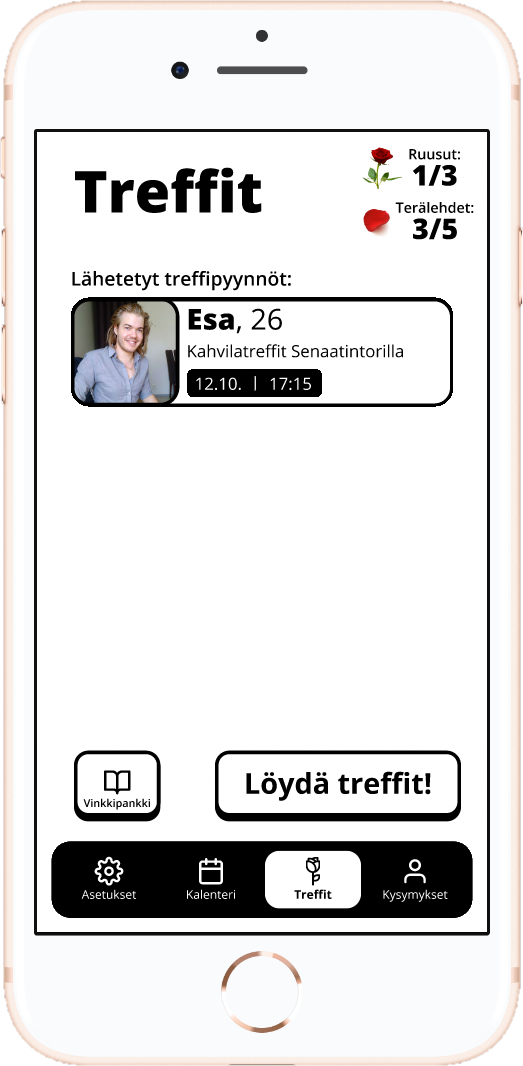
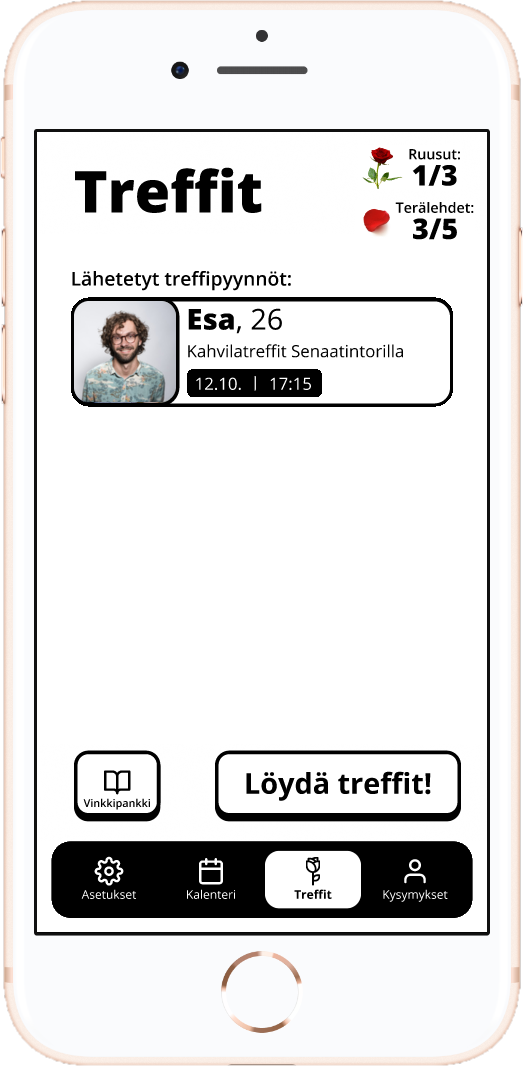
Meistä: a stand-in for the prototype's Esa, new 2022–2025 text, three more pictures
"Esa, 26" in the prototype's screenshots wore a real person's photograph. In
mockup1, mockup3, latevisu1 and latevisu2 meista.py now paints every one of his
photo slots over with one face from the backend's mock cast (spare-male-01,
Unsplash, Christian Buehner), each slot's box and corner radius measured on the
original; the Ehdokkaat card gets its darkening and its white name back on top.

2022–2025 reads the owner's new line, the English a draft, and gains the two
screens from the esimerkkiruudut board, set on the foot of visu2's phone, and the
early mascot as a rounded tile: the small map print with the logo and the mascot
over its lower corners, and four phones fanned under it, two pairs on a phone.

Claude-Session: https://claude.ai/code/session_01GD9L6NkBiCqNs6T5pZN8hJ

Changed region(s): [[0.1224, 0.2786, 0.3365, 0.4024]]

diff --git a/scripts/photos/meista.py b/scripts/photos/meista.py
@@ -16,6 +16,13 @@ by its kind:
   * A screenshot of a browser keeps only the page it shows: the box below cuts the
     browser's toolbar, its address and profile picture, off the top, and the
     window's edge and scrollbar off the sides.
+  * A board is a design-tool page holding several screens: each is cut out by its
+    box, its own frame label and the page's title left behind, and set into a
+    phone as a screen is, below. These are cut off at the board's foot, so they
+    stand on the phone's foot as if they ran on under it, and their own flat
+    background is carried on above them.
+  * A rounded tile is a square picture on no tile of its own, given the logo's
+    rounded corners.
   * A screen is a design-tool frame on its grey canvas, with the frame's name
     above it. It is cut to the frame and set into the phone of another phone
     shot, so it stands beside that one as the same device: the screen is fitted
@@ -24,6 +31,16 @@ by its kind:
     rows carried on. It runs the screen's full width: only its background meets
     the corners, and its content keeps the design's own margins inside them.
 
+Before any of that, the prototype's screenshots lose a real person. Their sample
+profile, "Esa, 26", wears the photograph of somebody who never agreed to be on a
+dating site, so every place it is drawn is painted over with one face from the
+backend's mock cast (`cast/`, Unsplash stock, credited in docs/pictures.md). The
+same face in every screenshot, so the prototype still reads as one profile. Each
+place is a box measured on the original, inside the slot's border, with the
+slot's corner radius; the face is cropped to the box's proportions round its
+centre and pasted under the slot's own border, and the one slot that prints the
+name over the photo gets its darkening and its white letters back on top.
+
 The same inputs give the same bytes out, every run.
 """
 import os
@@ -31,7 +48,7 @@ import shutil
 
 import cv2
 import numpy as np
-from PIL import Image
+from PIL import Image, ImageDraw, ImageFilter
 
 HERE = os.path.dirname(os.path.abspath(__file__))
 SRC = os.path.join(HERE, 'meista')
@@ -44,10 +61,48 @@ BLACK = 28
 PHOTOS = ['boissit.jpg', 'designsprint.jpg', 'designsprint2.jpg']
 DEVICES = ['visu2.jpg', 'mockup1.png', 'mockup2.png', 'mockup3.png', 'latevisu1.jpg', 'latevisu2.jpg']
 TILES = ['logo.jpg']
+# A square picture, the box of it that is the square, and the corner radius as a
+# share of its side, the logo tile's.
+ROUNDED_TILES = {'maskotti.png': ((0, 0, 286, 285), 0.175)}
+# A board, and each screen on it: the picture it becomes, its box on the board,
+# and the device whose phone it is set into.
+BOARDS = {
+    'esimerkkiruudut.png': {
+        'onboard.png': ((103, 89, 474, 898), 'visu2.jpg'),
+        'overview.png': ((518, 89, 889, 898), 'visu2.jpg'),
+    },
+}
 # A browser screenshot, and the box of it that is the page: measured on the file.
 BROWSER = {'map.jpg': (8, 26, 1263, 678)}
 # Above this in every channel a pixel is a tile's white ground.
 WHITE = 236
+# The stand-in for "Esa, 26": `spare-male-01.jpg` in treffit-backend's `test/`,
+# the cast's Aleksi Rantala, 26, copied here under the cast's name so the credit
+# in `treffit_backend/mocks/data.py` still finds it.
+CAST = os.path.join(HERE, 'cast')
+STAND_IN = 'spare-male-01.jpg'
+# Where the stand-in's face is centred, in its 600 x 600 pixels.
+STAND_IN_FACE = (300, 230)
+
+# Every photo slot of Esa: the inside of its border as (left, top, right, bottom),
+# measured on the original, and the border's inner corner radius. `square_bottom`
+# for a photo whose foot is a straight cut onto the card, and `name_over` for the
+# one that prints the name over the photo's foot, on a darkening.
+PORTRAITS = {
+    'mockup1.png': [{'box': (98, 325, 200, 426), 'radius': 15}],
+    'mockup3.png': [{'box': (90, 302, 287, 498), 'radius': 20}],
+    'latevisu1.jpg': [{'box': (71, 239, 336, 470), 'radius': 11, 'square_bottom': True, 'name_over': True}],
+    'latevisu2.jpg': [{'box': (69, 245, 147, 323), 'radius': 8}],
+}
+
+# The darkening under the name on the Ehdokkaat card, read off the original's wall:
+# none down to this share of the photo's height, then down to NAME_SHADE of the
+# light at this share, and level to the foot.
+NAME_SHADE_FROM, NAME_SHADE_TO, NAME_SHADE = 0.46, 0.87, 0.52
+# Above this a pixel of the name's band is the white lettering (the darkened photo
+# under it peaks near 110), and fully letter from NAME_FULL.
+NAME_EDGE, NAME_FULL = 120, 235
+
 # A screen, and the device whose phone it is set into.
 SCREENS = {'visu1.jpg': 'visu2.jpg'}
 
@@ -80,8 +135,54 @@ def save_device(rgb, alpha, name):
     Image.fromarray(np.dstack([rgb, alpha])).crop(box).save(os.path.join(WEB, stem(name) + '.png'), optimize=True)
 
 
+def rounded(width, height, radius, square_bottom=False):
+    """A rounded rectangle's coverage, 0 to 1, drawn at four times and averaged
+    down, so its curve is anti-aliased as the screenshot's own border is."""
+    k = 4
+    mask = Image.new('L', (width * k, height * k), 0)
+    draw = ImageDraw.Draw(mask)
+    draw.rounded_rectangle((0, 0, width * k - 1, height * k - 1), radius * k, fill=255,
+                           corners=(True, True, not square_bottom, not square_bottom))
+    return np.array(mask.resize((width, height), Image.LANCZOS)).astype(np.float32)[..., None] / 255
+
+
+def stand_in(width, height):
+    """The stand-in's face, cropped to `width` x `height` round its centre and as
+    soft as the screenshot it goes into."""
+    face = Image.open(os.path.join(CAST, STAND_IN)).convert('RGB')
+    side = min(face.width, round(face.height * width / height))
+    tall = round(side * height / width)
+    fx, fy = STAND_IN_FACE
+    left = min(max(fx - side // 2, 0), face.width - side)
+    top = min(max(fy - round(tall * 0.45), 0), face.height - tall)
+    crop = face.crop((left, top, left + side, top + tall)).resize((width, height), Image.LANCZOS)
+    return np.array(crop.filter(ImageFilter.GaussianBlur(0.5))).astype(np.float32)
+
+
+def paint_over_esa(rgb, name):
+    out = rgb.astype(np.float32)
+    for slot in PORTRAITS.get(name, []):
+        x0, y0, x1, y1 = slot['box']
+        w, h = x1 - x0, y1 - y0
+        old = out[y0:y1, x0:x1].copy()
+        face = stand_in(w, h)
+        if slot.get('name_over'):
+            t = (np.arange(h, dtype=np.float32) / (h - 1))[:, None, None]
+            ramp = np.clip((t - NAME_SHADE_FROM) / (NAME_SHADE_TO - NAME_SHADE_FROM), 0, 1)
+            ramp = ramp * ramp * (3 - 2 * ramp)
+            face *= 1 - (1 - NAME_SHADE) * ramp
+            # The white name, lifted off the original and laid back on.
+            light = old.mean(axis=2, keepdims=True)
+            letters = np.clip((light - NAME_EDGE) / (NAME_FULL - NAME_EDGE), 0, 1)
+            letters[: round(h * NAME_SHADE_TO) - 40] = 0
+            face = face * (1 - letters) + 255 * letters
+        cover = rounded(w, h, slot['radius'], slot.get('square_bottom', False))
+        out[y0:y1, x0:x1] = face * cover + old * (1 - cover)
+    return out.round().clip(0, 255).astype(np.uint8)
+
+
 def device(name):
-    rgb = np.array(Image.open(os.path.join(SRC, name)).convert('RGB'))
+    rgb = paint_over_esa(np.array(Image.open(os.path.join(SRC, name)).convert('RGB')), name)
     save_device(rgb, cut_out(rgb), name)
 
 
@@ -108,7 +209,8 @@ def frame_of(rgb):
     return screen
 
 
-def screen(name, into):
+def design_frame(name):
+    """A design-tool frame cut from its canvas, less the tool's anti-aliased edge."""
     im = Image.open(os.path.join(SRC, name)).convert('RGB')
     rgb = np.array(im).astype(int)
     canvas = rgb[2, 2]
@@ -118,30 +220,63 @@ def screen(name, into):
     rows = np.nonzero(differs.mean(axis=1) > 0.5)[0]
     cols = np.nonzero(differs.mean(axis=0) > 0.5)[0]
     e = FRAME_EDGE
-    design = np.array(im.crop((cols.min() + e, rows.min() + e, cols.max() + 1 - e, rows.max() + 1 - e)))
+    return np.array(im.crop((cols.min() + e, rows.min() + e, cols.max() + 1 - e, rows.max() + 1 - e)))
 
+
+def set_into_phone(design, into, out_name, align='centre'):
+    """`design` whole on the screen of `into`'s phone, below its notch.
+
+    Centred, it runs the screen's full width, and its top and bottom rows are
+    carried on into the room left. On the foot, for a screen cut off at its foot,
+    it stands on the screen's bottom edge and its top rows are carried on above;
+    a design too tall for that is narrowed, and its side columns carried on.
+    """
     phone = np.array(Image.open(os.path.join(SRC, into)).convert('RGB'))
     area = frame_of(phone)
     ys, xs = np.nonzero(area)
     top, bottom, left, right = ys.min(), ys.max() + 1, xs.min(), xs.max() + 1
     # The notch's depth: how far down the screen's middle column starts below its top.
     notch = np.nonzero(area[:, (left + right) // 2])[0].min() - top
+    screen_w, screen_h = right - left, bottom - top
 
-    # Whole, as wide as the screen, and below the notch.
-    width = right - left
-    height = round(design.shape[0] * width / design.shape[1])
-    room = bottom - top - height
-    above = max(room // 2, notch + SCREEN_MARGIN)
-    if room - above < SCREEN_MARGIN:
-        raise SystemExit(f'{name} does not fit inside the screen of {into} below its notch.')
+    if align == 'centre':
+        width = screen_w
+        height = round(design.shape[0] * width / design.shape[1])
+        room = screen_h - height
+        above = max(room // 2, notch + SCREEN_MARGIN)
+        if room - above < SCREEN_MARGIN:
+            raise SystemExit(f'{out_name} does not fit inside the screen of {into} below its notch.')
+        below = room - above
+    else:
+        scale = min(screen_w / design.shape[1], (screen_h - notch - SCREEN_MARGIN) / design.shape[0])
+        width, height = round(design.shape[1] * scale), round(design.shape[0] * scale)
+        above, below = screen_h - height, 0
     design = cv2.resize(design, (width, height), interpolation=cv2.INTER_AREA)
+    side = screen_w - width
     # The design's own edges carried on round it, so the room left is its background.
-    filled = cv2.copyMakeBorder(design, above, bottom - top - height - above, 0, 0, cv2.BORDER_REPLICATE)
+    filled = cv2.copyMakeBorder(design, above, below, side // 2, side - side // 2, cv2.BORDER_REPLICATE)
 
     out = phone.copy()
     soft = cv2.GaussianBlur(area.astype(np.float32), (3, 3), 0.8)[top:bottom, left:right, None]
     out[top:bottom, left:right] = (filled * soft + phone[top:bottom, left:right] * (1 - soft)).round().astype(np.uint8)
-    save_device(out, cut_out(phone), name)
+    save_device(out, cut_out(phone), out_name)
+
+
+def screen(name, into):
+    set_into_phone(design_frame(name), into, name)
+
+
+def board(name, screens):
+    sheet = np.array(Image.open(os.path.join(SRC, name)).convert('RGB'))
+    for out_name, (box, into) in screens.items():
+        x0, y0, x1, y1 = box
+        set_into_phone(np.ascontiguousarray(sheet[y0:y1, x0:x1]), into, out_name, align='foot')
+
+
+def rounded_tile(name, box, radius):
+    square = Image.open(os.path.join(SRC, name)).convert('RGB').crop(box)
+    cover = (rounded(square.width, square.height, round(min(square.size) * radius))[..., 0] * 255).round().astype(np.uint8)
+    Image.fromarray(np.dstack([np.array(square), cover])).save(os.path.join(WEB, stem(name) + '.png'), optimize=True)
 
 
 os.makedirs(WEB, exist_ok=True)
@@ -155,8 +290,12 @@ for name, box in BROWSER.items():
     browser(name, box)
 for name, into in SCREENS.items():
     screen(name, into)
+for name, screens in BOARDS.items():
+    board(name, screens)
+for name, (box, radius) in ROUNDED_TILES.items():
+    rounded_tile(name, box, radius)
 
-known = set(PHOTOS + DEVICES + TILES) | set(BROWSER) | set(SCREENS)
+known = set(PHOTOS + DEVICES + TILES) | set(BROWSER) | set(SCREENS) | set(BOARDS) | set(ROUNDED_TILES)
 unknown = sorted(n for n in os.listdir(SRC) if not n.startswith('.') and n not in known)
 if unknown:
     raise SystemExit(f"meista/ has {', '.join(unknown)}, which meista.py does not know: add each to its kind above.")

diff --git a/docs/pictures.md b/docs/pictures.md
@@ -122,7 +122,7 @@ failing — about any whose sidecar's `commit` predates a change under `pilke-ap
 | `/en/kayttoehdot.html/` | none |
 | `/en/kysyttya.html/` | none |
 | `/en/lapsiturvallisuus.html/` | none |
-| `/en/meista.html/` | `boissit` 544px<br>`visu1` 144px<br>`visu2` 144px<br>`designsprint2` 544px<br>`designsprint` 240px<br>`mockup1` 144px<br>`mockup2` 144px<br>`mockup3` 144px<br>`map` 544px<br>`logo` 200px<br>`latevisu1` 144px<br>`latevisu2` 144px |
+| `/en/meista.html/` | `boissit` 544px<br>`visu1` 144px<br>`visu2` 144px<br>`designsprint2` 544px<br>`designsprint` 240px<br>`mockup1` 144px<br>`mockup2` 144px<br>`mockup3` 144px<br>`map` 544px<br>`logo` 200px<br>`maskotti` 200px<br>`latevisu1` 144px<br>`latevisu2` 144px<br>`onboard` 144px<br>`overview` 144px |
 | `/en/nain-se-toimii.html/` | `story-en` 500px<br>`platter-en` 500px<br>`date-bench-wide` 1120px<br>`date-en` 500px |
 | `/en/tietojen-poisto.html/` | none |
 | `/en/tietosuoja.html/` | none |
@@ -132,7 +132,7 @@ failing — about any whose sidecar's `commit` predates a change under `pilke-ap
 | `/kayttoehdot.html/` | none |
 | `/kysyttya.html/` | none |
 | `/lapsiturvallisuus.html/` | none |
-| `/meista.html/` | `boissit` 544px<br>`visu1` 144px<br>`visu2` 144px<br>`designsprint2` 544px<br>`designsprint` 240px<br>`mockup1` 144px<br>`mockup2` 144px<br>`mockup3` 144px<br>`map` 544px<br>`logo` 200px<br>`latevisu1` 144px<br>`latevisu2` 144px |
+| `/meista.html/` | `boissit` 544px<br>`visu1` 144px<br>`visu2` 144px<br>`designsprint2` 544px<br>`designsprint` 240px<br>`mockup1` 144px<br>`mockup2` 144px<br>`mockup3` 144px<br>`map` 544px<br>`logo` 200px<br>`maskotti` 200px<br>`latevisu1` 144px<br>`latevisu2` 144px<br>`onboard` 144px<br>`overview` 144px |
 | `/nain-se-toimii.html/` | `story` 500px<br>`platter` 500px<br>`date-bench-wide` 1120px<br>`date` 500px |
 | `/ohje.html/` | none |
 | `/ohje/ehdokkaat.html/` | `fi/platter` 560px<br>`fi/cooldown-nodraw` 560px |
@@ -189,13 +189,16 @@ the flow inside it, and "in English" means that flow's copy derived by `manual-s
 | `visu2` | An early visual, not the shipping app | `meista.py`, masked to the phone | A pink sign-in screen, *GET ON BOARD / GET MATCHED / GET A DATE*, in a black iPhone X. 2020 on `/meista` |
 | `designsprint2` | None: the owner's own photograph | `meista.py`, copied as sent | A design session in a cabin: a user-flow diagram on a TV, one person at a laptop, another standing. With `designsprint`, in one row on 2021 of `/meista` |
 | `designsprint` | None: the owner's own photograph | `meista.py`, copied as sent | A window covered in sticky notes (*Tekninen toteutus*, *Tech stack*, *Launch*, *Käyttäjätestaus*…) with a person behind them. Drawn with `designsprint2` |
-| `mockup1` | The 2021 prototype, not the shipping app | `meista.py`, masked to the phone | Black-and-white *Treffit* home: a sent date request, roses and petals, *Löydä treffit!*, the tab bar; in a rose-gold iPhone 8. 2021 on `/meista` |
+| `mockup1` | The 2021 prototype, not the shipping app | `meista.py`, masked to the phone | Black-and-white *Treffit* home: a sent date request, roses and petals, *Löydä treffit!*, the tab bar; in a rose-gold iPhone 8. The profile's photo is the stand-in below. 2021 on `/meista` |
 | `mockup2` | The 2021 prototype | `meista.py`, masked to the phone | Black-and-white *Kalenteri*, July 2021 with three days marked. 2021 on `/meista` |
-| `mockup3` | The 2021 prototype | `meista.py`, masked to the phone | Black-and-white *Treffit!*: an agreed coffee date, the partner's photo, the time, a map, *Peru treffit* and *Takaisin*. 2021 on `/meista` |
-| `latevisu1` | A later design, not the shipping app | `meista.py`, masked to the phone | *Ehdokkaat* in colour: a candidate card on yellow, shared times, activities, *Ehdota!*. 2022–2025 on `/meista` |
-| `latevisu2` | A later design, not the shipping app | `meista.py`, masked to the phone | The *Pilke* home in colour: an agreed date card, *Löydä treffit!*, the tab bar. 2022–2025 on `/meista` |
-| `map` | The backend's debug map of candidates, not the shipping app | `meista.py`, the browser's toolbar, edge and scrollbar cut off | Folium over OpenStreetMap, the Helsinki area from Kirkkonummi to Sipoo: candidate markers in grey, red, green and blue, each with a radius circle, and the map's zoom buttons. 2022–2025 on `/meista`: a print with `logo` over its corner and the two phones under it. The crop's box is fixed in `meista.py` and measured on this file, so a new screenshot needs it measured again: nothing of the address bar or the profile picture may show |
-| `logo` | An earlier Pilke logo, not the current wordmark | `meista.py`, cut out to its rounded tile | *PILKE* in yellow with three yellow strokes of a spark, on a black rounded square. 2022–2025 on `/meista`, laid over the corner of `map` |
+| `mockup3` | The 2021 prototype | `meista.py`, masked to the phone | Black-and-white *Treffit!*: an agreed coffee date, the partner's photo, the time, a map, *Peru treffit* and *Takaisin*. The partner's photo is the stand-in below. 2021 on `/meista` |
+| `latevisu1` | A later design, not the shipping app | `meista.py`, masked to the phone | *Ehdokkaat* in colour: a candidate card on yellow, shared times, activities, *Ehdota!*. The candidate's photo is the stand-in below, under the card's own *Esa, 26* and its darkening. 2022–2025 on `/meista` |
+| `latevisu2` | A later design, not the shipping app | `meista.py`, masked to the phone | The *Pilke* home in colour: an agreed date card, *Löydä treffit!*, the tab bar. The card's photo is the stand-in below. 2022–2025 on `/meista` |
+| `map` | The backend's debug map of candidates, not the shipping app | `meista.py`, the browser's toolbar, edge and scrollbar cut off | Folium over OpenStreetMap, the Helsinki area from Kirkkonummi to Sipoo: candidate markers in grey, red, green and blue, each with a radius circle, and the map's zoom buttons. 2022–2025 on `/meista`: a small print with `logo` and `maskotti` over its lower corners and the four phones under it. The crop's box is fixed in `meista.py` and measured on this file, so a new screenshot needs it measured again: nothing of the address bar or the profile picture may show |
+| `logo` | An earlier Pilke logo, not the current wordmark | `meista.py`, cut out to its rounded tile | *PILKE* in yellow with three yellow strokes of a spark, on a black rounded square. 2022–2025 on `/meista`, laid over the lower right corner of `map` |
+| `maskotti` | An early mascot attempt, never in the app | `meista.py`, cut to its beige square and given the logo tile's corners | A cream, rabbit-like character with sparkles in its fur and navy stars round it, on beige. 2022–2025 on `/meista`, over the lower left corner of `map`. The file is 298 px square, so the tile is drawn no larger than about 88 px |
+| `onboard` | An early design of the welcome screen, not the shipping app | `meista.py`, cut from the `esimerkkiruudut.png` board and set into `visu2`'s phone on its foot | The lilac *Esimerkkiruutu - Onboard 1*: the *Pilke* label with its sparkle, a yellow *Tervetuloa!* card with the owner's text and a *Joo!* button, cut off at the foot as on the board, lilac carried on above. 2022–2025 on `/meista` |
+| `overview` | An early design of the home screen, not the shipping app | `meista.py`, cut from the same board and set into the same phone | The lilac *Esimerkkiruutu - Overview*: the *Pilke* label and four tiles at the top, *Vinkkipankki* and a gear, the yellow tab bar (*Treffit*, *Kalenteri*, *Kysymykset*, *Turvallisuus*) cut off at the foot. 2022–2025 on `/meista` |
 
 ## The photographs
 
@@ -248,6 +251,24 @@ inventory lists it as awaited.
 
 The people in these photographs are the owner's own team and friends, and they are
 on the page with the owner's say-so rather than under any stock licence.
+
+**The one face that is not theirs.** The prototype's sample profile, *Esa, 26* (and
+*Esuli, 26* on `mockup3`), was a real person's photograph, and he is on no page. In
+`mockup1`, `mockup3`, `latevisu1` and `latevisu2` every one of his photo slots is
+painted over by `meista.py` with one face from the backend's mock cast, the same in
+all four so the prototype still reads as one profile: `scripts/photos/cast/spare-male-01.jpg`,
+the cast's Aleksi Rantala, copied from `treffit-backend/test/` under the same name.
+Each slot's box and corner radius are measured on the original and fixed in the
+script, so a new copy of one of those four screenshots needs them measured again.
+
+| Picture | Stock photo | Photographer |
+| --- | --- | --- |
+| The face in `mockup1`, `mockup3`, `latevisu1`, `latevisu2` | [DItYlc26zVI](https://unsplash.com/photos/DItYlc26zVI) | Christian Buehner |
+
+It is Unsplash stock under the Unsplash License, the licence and credit recorded
+for the whole cast in `treffit_backend/mocks/data.py`. Like the front page's photos,
+that licence grants use and not likeness: the face is shown as a prototype's sample
+profile, and may never be captioned as a Pilke user.
 
 ## The sparks
 
